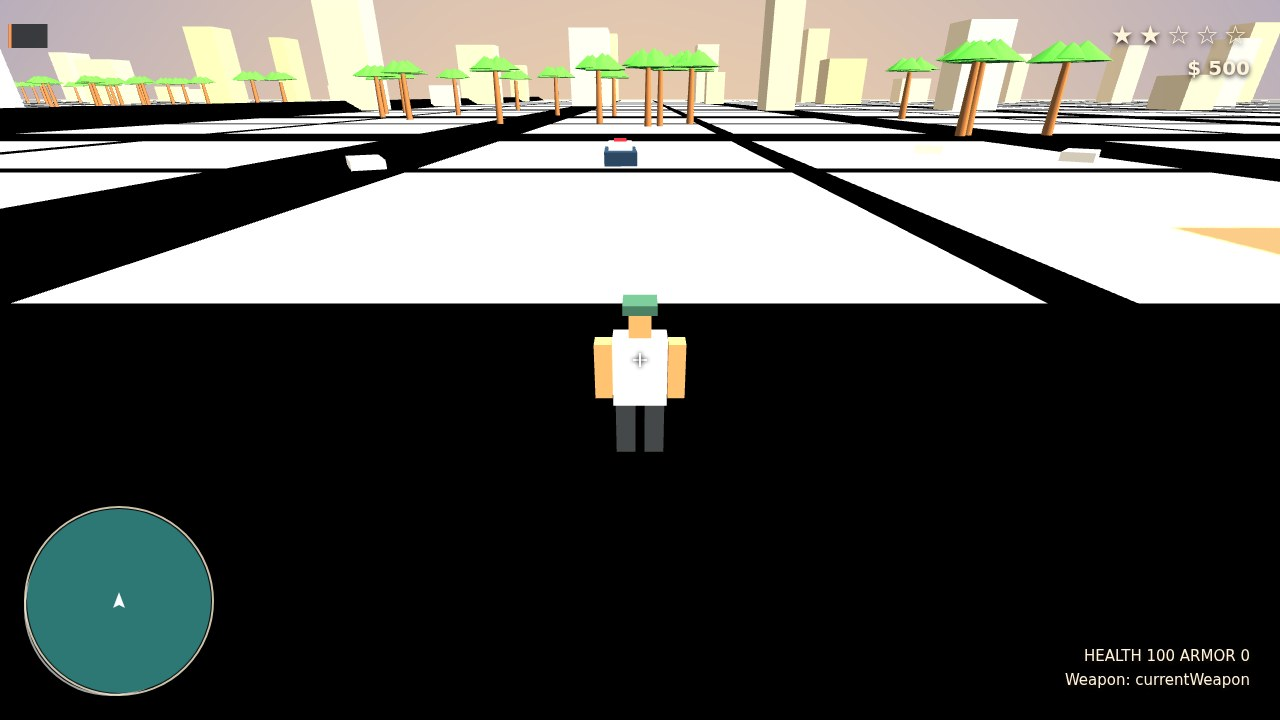
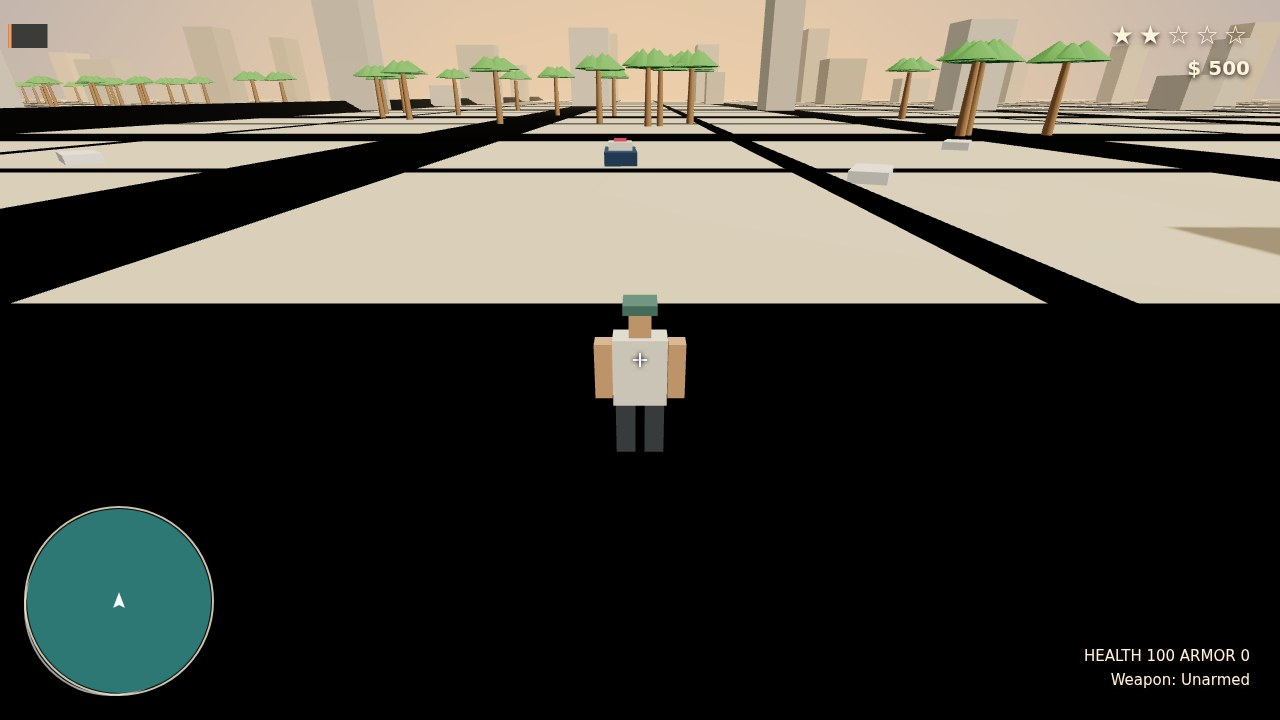
Solmar Bay: tone mapping, weapon status, final screenshots

Changed region(s): [[0.0, 0.0, 1.0, 0.5806], [0.8438, 0.9167, 0.9688, 0.9778]]

diff --git a/game/src/main.js b/game/src/main.js
@@ -32,6 +32,8 @@ function init() {
   if (!T) throw new Error('THREE vendor script was not loaded');
   const canvas = document.querySelector('canvas') || document.body.appendChild(document.createElement('canvas'));
   const renderer = new T.WebGLRenderer({ canvas, antialias: true });
+  renderer.toneMapping = T.ACESFilmicToneMapping;
+  renderer.toneMappingExposure = 1.0;
   renderer.setPixelRatio(Math.min(window.devicePixelRatio || 1, 2));
   renderer.setSize(innerWidth, innerHeight);
   renderer.shadowMap.enabled = true;
@@ -40,12 +42,12 @@ function init() {
   scene.background = new T.Color(CONFIG.PALETTE.skyTop);
   scene.fog = new T.FogExp2(CONFIG.PALETTE.fog, 0.0018);
   const camera = new T.PerspectiveCamera(65, innerWidth / innerHeight, 0.1, 1600);
-  const sun = new T.DirectionalLight(CONFIG.PALETTE.sun, 2.2);
+  const sun = new T.DirectionalLight(CONFIG.PALETTE.sun, 1.5);
   sun.castShadow = true;
   sun.shadow.mapSize.set(2048, 2048);
   sun.shadow.camera.left = sun.shadow.camera.bottom = -120;
   sun.shadow.camera.right = sun.shadow.camera.top = 120;
-  scene.add(sun, new T.HemisphereLight(0xffe2bc, 0x52636a, 1.25));
+  scene.add(sun, new T.HemisphereLight(0xffe2bc, 0x52636a, 0.85));
   const sky = new T.Mesh(new T.SphereGeometry(900, 24, 16), new T.MeshBasicMaterial({
     color: CONFIG.PALETTE.skyTop, side: T.BackSide, depthWrite: false,
   }));
@@ -130,7 +132,7 @@ function init() {
     try {
       state.mode = 'play'; ctx.input.setCapture(false); ctx.hud.showStart(true);
       ctx.player.pos.set(0, 0, 20);
-      if (ctx.vehicles.spawnTraffic) ctx.vehicles.spawnTraffic({ x: 0, z: 20 });
+       if (ctx.vehicles.spawnTraffic) ctx.vehicles.spawnTraffic(new T.Vector3(0, 0, 20));
       if (shot === 'chase' || shot === 'end') {
         state.wanted = shot === 'end' ? 2 : 3;
         ctx.police.heat = shot === 'end' ? 3 : 5;

diff --git a/game/src/hud.js b/game/src/hud.js
@@ -96,7 +96,8 @@ export class Hud {
     if (Number(s.money) !== this.moneyTarget) { this.moneyTarget = Number(s.money) || 0; this.moneyChanged = now; }
     this.moneyShown += (this.moneyTarget-this.moneyShown) * Math.min(1, dt*5);
     set('hud-money', '$ ' + Math.round(this.moneyShown).toLocaleString());
-    const weapon = this.ctx.combat?.currentWeapon || this.ctx.combat?.weapon || {};
+    const key = this.ctx.combat?.weapon;
+    const weapon = key && this.ctx.combat?.weapons ? this.ctx.combat.weapons[key] : {};
     const ammo = weapon.ammo ?? weapon.reserve ?? '';
     const status = `HEALTH ${Math.ceil(s.health ?? 100)}  ARMOR ${Math.ceil(s.armor ?? 0)}<br>Weapon: ${weapon.name || 'Unarmed'}  ${ammo}`;
     if (this.last['hud-status'] !== status) { this.nodes['hud-status'].innerHTML = status; this.last['hud-status'] = status; }
